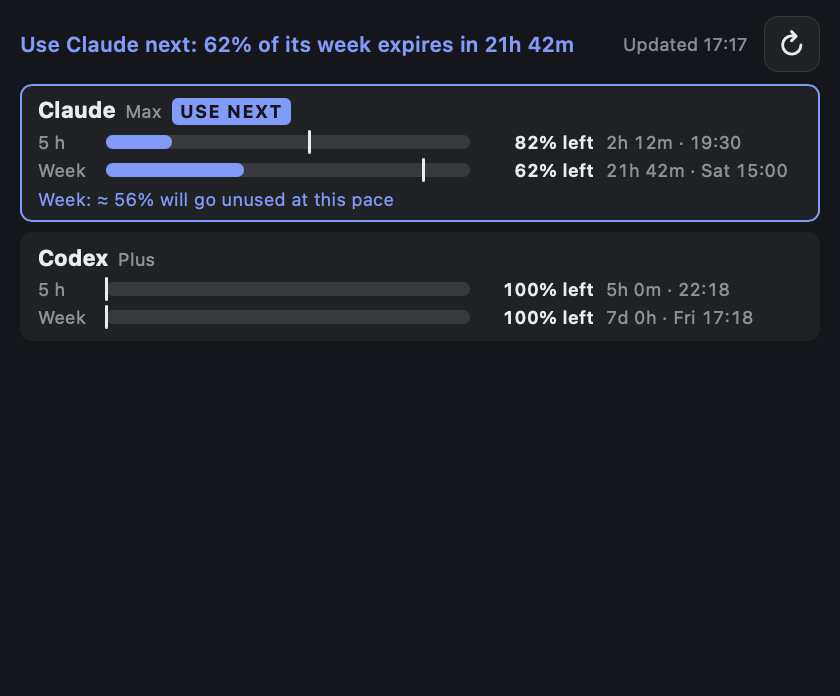
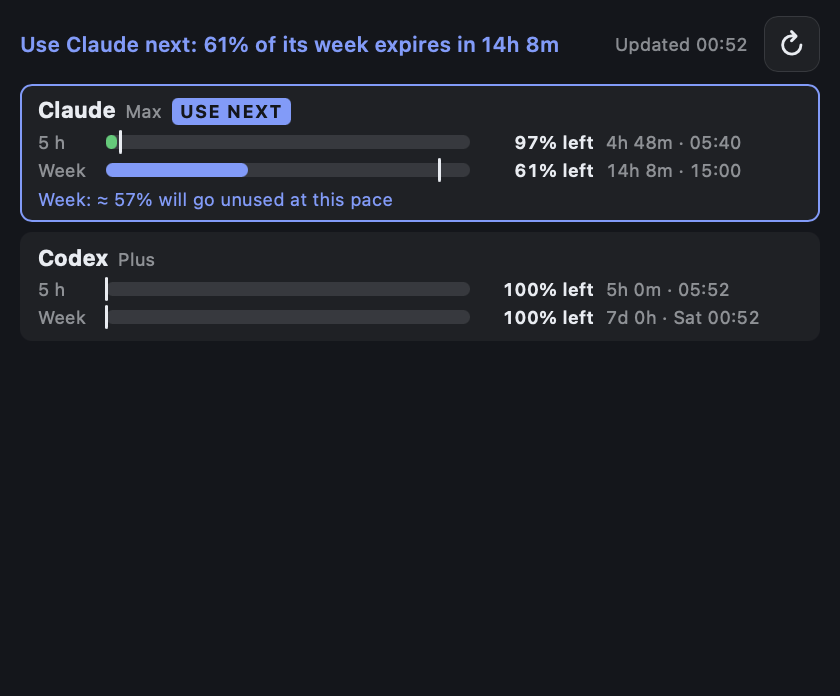
LLM Usage README: per-provider configuration and a fresh screenshot
Covers each subscription (Claude Pro/Max, ChatGPT/Codex, Gemini app,
Kimi Code, Ollama Cloud), several accounts of one kind, why pay-as-you-go
API accounts (Anthropic, OpenAI, Gemini API key) cannot be tracked, local
models, a complete example and troubleshooting.

diff --git a/examples/widgets/llm-usage/README.md b/examples/widgets/llm-usage/README.md
@@ -6,35 +6,239 @@ the most quota about to expire unused.
 
 ![LLM Usage at Medium size in EdgeHost](screenshot.png)
 
-*Medium (M) slot with live data. Claude Max is 38% into its week with 87% of the week gone, so the
-widget suggests using Claude next; Codex Plus has not been used yet.*
+*Medium (M) slot with live data. Claude Max has 61% of its week left with 14 hours to go, so the
+widget suggests using Claude next. Its new 5-hour block has barely started. Codex Plus has not been
+used yet.*
 
-Supported: **Claude** Pro/Max, **Codex** with a ChatGPT plan, the **Gemini** app (AI Pro/Ultra),
-**Kimi Code** and **Ollama Cloud**. How each is read and its caveats are in
+How each service is read, and its caveats, are in
 [`docs/llm-usage.md`](../../../docs/llm-usage.md).
 
 ## Reading the widget
 
-- **Bar**: share used. **White tick**: where straight-line use would be now, so it is the "on pace"
+- **Bar**: share used. **White tick**: where straight-line use would be now, i.e. the "on pace"
   position.
-- **Colours**: green is on pace. Amber means ahead of pace: it runs out before the reset at this
-  rate. Accent (blue) means behind pace: quota will be left over. Red means used up. Grey means
-  not started.
+- **Colours**:
+  - green: on pace;
+  - amber: ahead of pace, so it runs out before the reset at this rate;
+  - accent (blue): behind pace, so quota will be left over;
+  - red: used up;
+  - grey: not started.
 - **Right side**: amount left, then time to the reset and its local time.
 - **Note line**: when it runs out, how much will go unused at the current pace, or when a used-up
   subscription comes back.
 - **↻**: fetch now. Otherwise EdgeHost polls every `poll_seconds` (default 5 minutes), sharing one
   set of requests among all LLM Usage widgets.
-- **Stale** means the last fetch failed and the numbers are older; the reason is shown.
-  **Error** means there are no numbers yet.
+- **Stale**: the last fetch failed, so the numbers are older; the reason is shown.
+- **Error**: there are no numbers yet; the reason is shown.
 
 ## Requirements
 
 - EdgeHost's built-in **LlmUsage** plugin (`edgehost.llmusage:LlmUsage:1.0`). It is not an iCUE
   plugin, so the widget does nothing in iCUE.
-- A subscriptions file, `llm-usage.toml`, in the EdgeHost data folder, readable only by you.
-  Create it with `edgectl llm-usage init`, enable your subscriptions, paste any keys, then check it
-  with `edgectl llm-usage`. The widget has no credential settings.
+- A subscriptions file, `llm-usage.toml`, in the EdgeHost data folder
+  (`~/Library/Application Support/EdgeHost/llm-usage.toml`), readable only by you. The widget
+  itself has no credential settings.
+
+## Configuration
+
+### 1. Create the subscriptions file
+
+```bash
+edgectl llm-usage init     # writes a commented example with mode 600
+open -e "$(edgectl llm-usage path)"
+```
+
+The file is a list of `[[subscription]]` entries. Every entry needs `provider`. It may also set:
+
+- `label`: the display name;
+- `id`: needed only when you have two entries for the same provider;
+- `enabled = false`: keep the entry but skip it.
+
+At the top, `poll_seconds` sets how often to fetch (default 300, at least 60).
+
+Then check it:
+
+```bash
+edgectl llm-usage          # fetches every enabled subscription and prints what the widget will show
+```
+
+EdgeHost refuses the file if anyone else can read it. `init` sets the mode; if you created the file
+yourself, run `chmod 600` on it.
+
+### 2. Subscriptions
+
+These are plans with a quota that resets on a schedule, which is what the widget is built for.
+
+#### Anthropic: Claude Pro / Max
+
+Shows the 5-hour block and the weekly limit as percentages.
+
+```toml
+[[subscription]]
+provider = "claude"
+label = "Claude Max"
+```
+
+- Uses Claude Code's login, so you need to be signed in: run `claude` and then `/login` with your
+  Claude.ai account, not an API key.
+- On macOS the login is in the Keychain item "Claude Code-credentials"; elsewhere it is
+  `~/.claude/.credentials.json`.
+- When the token expires, EdgeHost refreshes it and saves it back, as Claude Code would. The first
+  time, macOS asks whether EdgeHost may change that Keychain item; choose **Always Allow**.
+- A token from `claude setup-token` won't work: it lacks the `user:profile` scope that the usage
+  endpoint needs.
+
+#### OpenAI: ChatGPT Plus / Pro (Codex)
+
+Shows Codex's 5-hour and weekly limits as percentages, plus any purchased credits.
+
+```toml
+[[subscription]]
+provider = "codex"
+label = "Codex"
+# auth_file = "~/.codex/auth.json"   # the default ($CODEX_HOME/auth.json)
+```
+
+- Uses the Codex CLI's login: run `codex login` and choose **Sign in with ChatGPT**.
+- An API-key login (`auth_mode = "apikey"` in `auth.json`) has no subscription quota to show.
+- If you set `cli_auth_credentials_store = "keyring"` in `~/.codex/config.toml`, there is no
+  `auth.json` to read. Switch back to `file`.
+- Expired tokens are refreshed and written back to `auth.json`.
+
+#### Google: Gemini app (Google AI Pro / Ultra)
+
+Shows the Gemini app's 5-hour and weekly limits.
+
+```toml
+[[subscription]]
+provider = "gemini"
+label = "Gemini"
+cookie = "SID=…; HSID=…; SSID=…; __Secure-1PSID=…; …"
+```
+
+Gemini CLI's Google login stopped reporting quota for consumer plans on 2026-06-18, so EdgeHost
+reads what [gemini.google.com/usage](https://gemini.google.com/usage) shows. That needs your
+browser's cookie:
+
+1. Open gemini.google.com/usage in a browser where you are signed in.
+2. Open the developer tools (Safari: **Develop → Show Web Inspector**; Chrome: **View → Developer
+   → Developer Tools**), go to **Network**, and reload the page.
+3. Select the first request (`usage`) and find **Request Headers → Cookie**.
+4. Copy the whole value and paste it as `cookie = "…"`.
+
+The cookie is a full Google session, so keep the file private. When Google signs it out, the widget
+shows "the Gemini cookie is signed out"; paste a fresh one.
+
+#### Kimi Code membership
+
+Shows the 5-hour, weekly and monthly limits.
+
+```toml
+[[subscription]]
+provider = "kimi"
+label = "Kimi"
+api_key = "sk-…"                                  # from kimi.com/code/console
+# base_url = "https://api.kimi.ai/coding/v1"     # international accounts, if the default fails
+```
+
+#### Ollama Cloud (Free / Pro / Max)
+
+Credit plans show dollars of the monthly allowance, plus any purchased credits. Legacy Pro/Max plans
+show the 5-hour session and weekly limits.
+
+```toml
+[[subscription]]
+provider = "ollama"
+label = "Ollama Cloud"
+api_key = "…"                                     # from ollama.com/settings/keys
+```
+
+This also covers cloud models you run through a local `ollama` (tags ending in `cloud`, such as
+`gpt-oss:120b-cloud`): they count against the same Ollama Cloud plan.
+
+#### Several accounts of one kind
+
+Give each its own `id`:
+
+```toml
+[[subscription]]
+provider = "codex"
+id = "codex-work"
+label = "Codex (work)"
+auth_file = "~/work-codex/auth.json"
+
+[[subscription]]
+provider = "claude"
+id = "claude-team"
+label = "Claude (team)"
+access_token = "sk-ant-oat01-…"   # a fixed OAuth token; never refreshed, so it stops when it expires
+```
+
+### 3. Pay-as-you-go APIs: not shown
+
+The widget **cannot** track these, and you should leave them out of the file:
+
+| Account | Why not |
+|---|---|
+| Anthropic API (console.anthropic.com credits) | There is no API that returns your remaining credit balance. The Admin API's [Usage and Cost API](https://platform.claude.com/docs/en/build-with-claude/usage-cost-api) reports spend (`/v1/organizations/cost_report`, daily buckets, admin key only), but not what is left. |
+| OpenAI API (platform.openai.com credits) | The same: `GET /v1/organization/costs` reports spend with an admin key. OpenAI's developer forum [says there is no balance endpoint](https://community.openai.com/t/why-is-there-no-api-for-account-balance/577584) (checked 2026-10). |
+| Gemini API key (Google AI Studio) | No quota or usage API at all. Limits show up only as HTTP 429 errors and on AI Studio's **Usage** dashboard. |
+
+Pay-as-you-go credit also has no window to use up before a reset: unused credit simply carries
+over, so there is nothing to be on pace for. Watch it in each console's billing page.
+
+If you want spend shown against a monthly budget you choose, it can be built on the Anthropic and
+OpenAI cost endpoints with an admin key, but it doesn't exist yet. The one pay-as-you-go balance
+the widget already shows is Ollama Cloud's purchased credits.
+
+### 4. Local models: nothing to configure
+
+Models that run on your own machine (local `ollama` models, LM Studio, llama.cpp, MLX) have no
+quota and no reset, so the widget has nothing to show for them, and there is no entry for them.
+The exception is Ollama's **cloud** models run through the local `ollama` command (names ending in
+`cloud`): they use your Ollama Cloud plan, so add the `ollama` entry above.
+
+### 5. A complete example
+
+```toml
+poll_seconds = 300
+
+[[subscription]]
+provider = "claude"
+label = "Claude Max"
+
+[[subscription]]
+provider = "codex"
+label = "Codex"
+
+[[subscription]]
+provider = "gemini"
+label = "Gemini"
+cookie = "…"
+
+[[subscription]]
+provider = "kimi"
+label = "Kimi"
+api_key = "…"
+
+[[subscription]]
+provider = "ollama"
+label = "Ollama Cloud"
+api_key = "…"
+```
+
+### Troubleshooting
+
+| The widget says | Do this |
+|---|---|
+| "Set up your subscriptions … does not exist" | `edgectl llm-usage init` |
+| "… is readable by other users" | `chmod 600 "$(edgectl llm-usage path)"` |
+| "…:4:1: unknown field `apikey`" | Fix the key name on that line (it is `api_key`) |
+| "Claude Code is not signed in" / "sign in again" | Run `claude`, then `/login` |
+| "Codex is not signed in with ChatGPT" | `codex login`, then **Sign in with ChatGPT** |
+| "the Gemini cookie is signed out" | Paste a fresh Cookie header |
+| "rate limited; retrying in N s" | Nothing; it waits as asked. Raise `poll_seconds` if it keeps happening |
+| "unexpected response from …" | The service changed its private API; the widget needs an update |
 
 ## Settings
 
@@ -45,11 +249,9 @@ Supported: **Claude** Pro/Max, **Codex** with a ChatGPT plan, the **Gemini** app
 ## Run it
 
 ```bash
-edgectl llm-usage init          # writes ~/Library/Application Support/EdgeHost/llm-usage.toml (0600)
-edgectl llm-usage               # what the widget will show
-edgectl run-one examples/widgets/llm-usage --windowed --slot M
-edgectl install examples/widgets/llm-usage
-edgectl layout add dev.edgehost.llm-usage --slot M
+edgectl run-one examples/widgets/llm-usage --windowed --slot M   # try it in a stand-in window
+edgectl install examples/widgets/llm-usage                       # or: just deploy-llm-usage
+edgectl layout add dev.edgehost.llm-usage --slot M               # or Configure Widgets… in the menu
 ```
 
 Designed for **M**. **S** shows one line per subscription with its first two windows. **L** and
